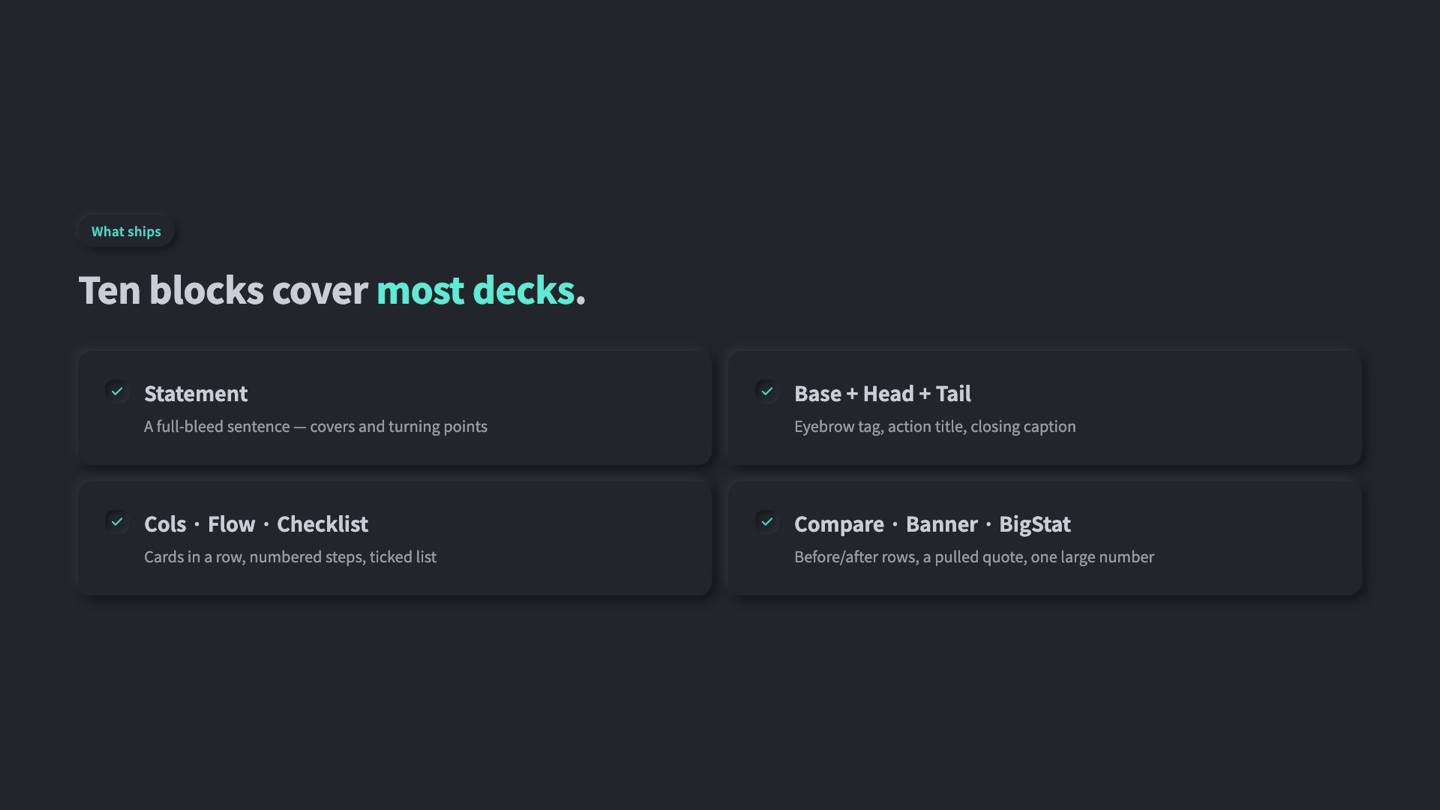
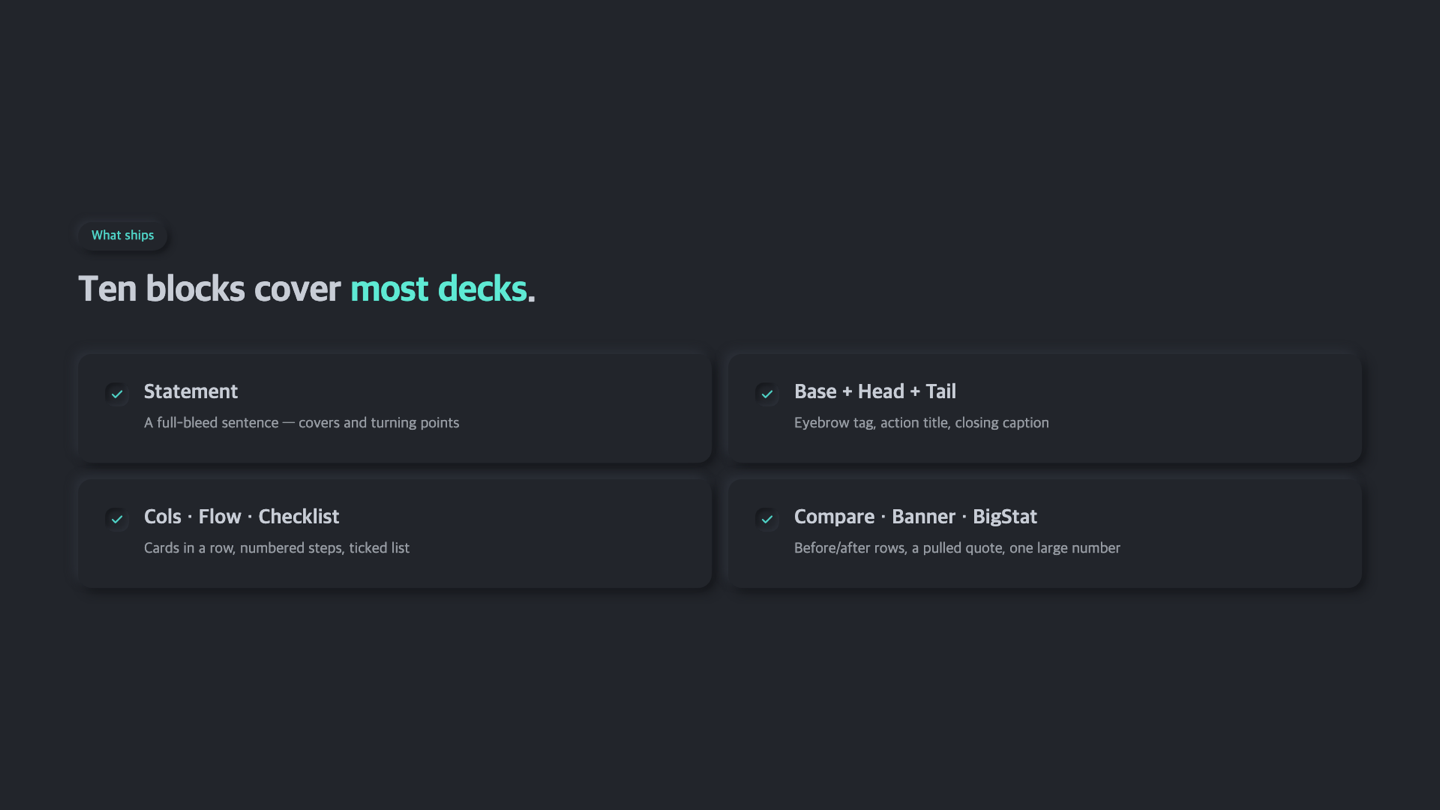
fix(kit): two alignment lines — markers stand on the line, words follow
A caption's bar and a quote's bar were 26px apart, so a caption never
began where its quote began.

- line 1: badge border, title, every card's left border
- line 2: card text, bullet dot, quote bar, caption bar
- words follow a marker at MARK; a marker never nudges text off its line
- compare row labels moved onto line 2, label column widened to 300px
- RAIL replaced by MARK

Screenshots retaken.

diff --git a/src/lean-deck/kit.tsx b/src/lean-deck/kit.tsx
@@ -9,14 +9,15 @@ export const CODE_BG = 'rgba(125,128,140,0.14)';
  * 조판 규칙 (2026-08-25)
  *  ① 정렬선 — 뱃지 테두리·헤더 타이틀·카드의 왼쪽 테두리가 같은 x(정렬선)에 선다.
  *     카드 안의 글자는 카드 텍스트 라인(정렬선 + PAD)에 선다.
- *  ② 표시는 글자를 밀지 않는다 — 불릿 점은 카드 큰 글씨의 왼쪽에서 시작하고,
- *     인용·꼬리말의 바는 카드 텍스트 라인 안쪽 여백에 걸린다. 글자는 언제나 라인 위.
+ *  ② 라인은 둘뿐이다 — 정렬선(L)과 카드 텍스트 라인(L + CARD_PAD).
+ *     불릿 점·인용 바·꼬리말 바는 전부 카드 텍스트 라인에 서고,
+ *     그 글자들은 한 자리(MARK) 뒤에 온다. 서브 텍스트도 인용 표시부터 시작한다.
  *  ③ 깊이 — 양각(t.card)은 표면에 놓인 실체, 음각(t.cardHi)은 안에 담긴 것
  *     (인용문·이전 상태·아이콘 그릇). 깊이로 강조하지 않는다.
  *  ④ 강조 — 카드에 테두리·깊이 차이를 주지 않는다. 같은 층의 카드는 같은 모양이다.
  *     구분이 필요하면 라벨색·글자 굵기·문장 자체로 한다.
  */
-export const RAIL = 16;   // 인용 표시(바)와 글자 사이. 바는 카드 테두리에서 CARD_PAD-RAIL 떨어진다
+export const MARK = 22;   // 표시(불릿 점·인용 바)와 그 뒤 글자 사이
 export const CARD_PAD = 42;   // 모든 카드의 안쪽 여백. 카드 안 글자 = 정렬선 + CARD_PAD
 
 export function Base({ t, center, wide, children }: { t: Theme; center?: boolean; wide?: boolean; children: React.ReactNode }) {
@@ -64,8 +65,8 @@ export function Head({ t, eyebrow, pre, accent, post, size = 52 }: { t: Theme; e
 
 export function Tail({ t, children }: { t: Theme; children: React.ReactNode }) {
   return (
-    <div style={{ position: 'relative', marginTop: 36, paddingLeft: RAIL + 4 }}>
-      <div style={{ position: 'absolute', left: 0, top: 3, bottom: 3, minHeight: 26, width: 4, borderRadius: 4, background: t.bar }} />
+    <div style={{ position: 'relative', marginTop: 36, paddingLeft: CARD_PAD + MARK }}>
+      <div style={{ position: 'absolute', left: CARD_PAD, top: 3, bottom: 3, minHeight: 26, width: 4, borderRadius: 4, background: t.bar }} />
       <p style={{ fontSize: 22, lineHeight: 1.6, margin: 0, color: t.ink.soft }}>{children}</p>
     </div>
   );
@@ -86,7 +87,7 @@ export function Cols({ t, items }: { t: Theme; items: { idx?: string; title: str
           <p style={{ fontSize: 34, fontWeight: 700, margin: '0 0 22px', color: t.ink.strong, wordBreak: 'keep-all', lineHeight: 1.4 }}>{c.title}</p>
           <div style={{ display: 'flex', flexDirection: 'column', gap: 13 }}>
             {(c.rows ?? []).map((r, j) => (
-              <div key={j} style={{ position: 'relative', paddingLeft: 22 }}>
+              <div key={j} style={{ position: 'relative', paddingLeft: MARK }}>
                 <span style={{ position: 'absolute', left: 0, top: 13, width: 7, height: 7, borderRadius: '50%', background: t.accent }} />
                 <span style={{ fontSize: 21, lineHeight: 1.6, color: t.ink.soft, wordBreak: 'keep-all', fontFamily: c.mono0 && j === 0 ? t.mono : t.font }}>{r}</span>
               </div>
@@ -152,8 +153,8 @@ export function Banner({ t, kind = 'info', children }: { t: Theme; kind?: 'info'
   const PAD = CARD_PAD;
   return (
     <div style={{ position: 'relative', boxSizing: 'border-box', padding: `40px ${PAD}px`, ...(warn ? { ...t.card, ...t.warn, borderRadius: (t.card.borderRadius as number) ?? 14 } : t.card) }}>
-      <div style={{ position: 'absolute', left: PAD - RAIL, top: 40, bottom: 40, width: 4, borderRadius: 4, background: warn ? (t.warn.color ?? t.bar) : t.bar }} />
-      <p style={{ fontSize: 31, lineHeight: 1.55, margin: 0, color: warn ? (t.warn.color ?? t.ink.strong) : t.ink.strong, wordBreak: 'keep-all', fontWeight: 500 }}>{children}</p>
+      <div style={{ position: 'absolute', left: PAD, top: 40, bottom: 40, width: 4, borderRadius: 4, background: warn ? (t.warn.color ?? t.bar) : t.bar }} />
+      <p style={{ paddingLeft: MARK, fontSize: 31, lineHeight: 1.55, margin: 0, color: warn ? (t.warn.color ?? t.ink.strong) : t.ink.strong, wordBreak: 'keep-all', fontWeight: 500 }}>{children}</p>
     </div>
   );
 }
@@ -162,14 +163,14 @@ export function Banner({ t, kind = 'info', children }: { t: Theme; kind?: 'info'
 export function Compare({ t, beforeLabel = '예전', afterLabel = '지금', rows }: { t: Theme; beforeLabel?: string; afterLabel?: string; rows: { label: string; before: string; after: string }[] }) {
   return (
     <div style={{ display: 'flex', flexDirection: 'column', gap: 18 }}>
-      <div style={{ display: 'grid', gridTemplateColumns: '250px 1fr 1fr', gap: 20 }}>
+      <div style={{ display: 'grid', gridTemplateColumns: '300px 1fr 1fr', gap: 20 }}>
         <span />
         <span style={{ fontSize: 18, fontWeight: 600, color: t.ink.mute }}>{beforeLabel}</span>
         <span style={{ fontSize: 18, fontWeight: 700, color: t.accent }}>{afterLabel}</span>
       </div>
       {rows.map((r, i) => (
-        <div key={i} style={{ display: 'grid', gridTemplateColumns: '250px 1fr 1fr', gap: 20, alignItems: 'stretch' }}>
-          <div style={{ display: 'flex', alignItems: 'center', fontSize: 23, fontWeight: 600, color: t.ink.soft, wordBreak: 'keep-all' }}>{r.label}</div>
+        <div key={i} style={{ display: 'grid', gridTemplateColumns: '300px 1fr 1fr', gap: 20, alignItems: 'stretch' }}>
+          <div style={{ display: 'flex', alignItems: 'center', paddingLeft: CARD_PAD, fontSize: 23, fontWeight: 600, color: t.ink.soft, wordBreak: 'keep-all' }}>{r.label}</div>
           <Card t={t} inset style={{ padding: `30px ${CARD_PAD}px`, display: 'flex', alignItems: 'center' }}><span style={{ fontSize: 22, lineHeight: 1.5, color: t.ink.mute, wordBreak: 'keep-all' }}>{r.before}</span></Card>
           <Card t={t} style={{ padding: `30px ${CARD_PAD}px`, display: 'flex', alignItems: 'center' }}><span style={{ fontSize: 22, lineHeight: 1.5, color: t.ink.strong, fontWeight: 600, wordBreak: 'keep-all' }}>{r.after}</span></Card>
         </div>

diff --git a/src/lean-deck/DemoDeck.tsx b/src/lean-deck/DemoDeck.tsx
@@ -74,9 +74,9 @@ export const demoSlides: Slide[] = [
     title: 'Alignment',
     render: (t) => (
       <Base t={t}>
-        <Head t={t} eyebrow="One alignment line" pre="Badge, title and card border all sit on" accent="the same x" post="." size={46} />
-        <Banner t={t}>Quotes and captions begin at their accent bar, never after it.</Banner>
-        <Tail t={t}>Cards sit on the line; the text inside them sits one CARD_PAD further in.</Tail>
+        <Head t={t} eyebrow="Two lines, and only two" pre="Badge border, title and card border sit on" accent="the first" post="." size={46} />
+        <Banner t={t}>Card text, bullet dots and accent bars all sit on the second line.</Banner>
+        <Tail t={t}>A caption begins exactly where a quote begins — marker first, then the words.</Tail>
       </Base>
     ),
   },

diff --git a/README.md b/README.md
@@ -132,8 +132,8 @@ slides[0].render(THEMES.brutalism);
 | `Card` | The primitive. Compose your own layouts with it. |
 | `Tag` `Accent` `Warn` | Inline pieces. |
 
-Constants: `CARD_PAD` is the inset from a card's border to its text; `RAIL` is the gap between an
-accent bar and the text that follows it.
+Constants: `CARD_PAD` is the inset from a card's border to its text; `MARK` is the gap between a
+marker (bullet dot, accent bar) and the words that follow it.
 
 ![components](docs/components/slide-7.png)
 
@@ -141,10 +141,11 @@ accent bar and the text that follows it.
 
 ## Three rules the kit enforces
 
-**One alignment line.** The eyebrow badge's border, the title, every card's left border, and the
-accent bar of a caption all sit at the same x. Inside a card, the text sits one `CARD_PAD`
-further in — and the bullet dot of a list starts where that text starts, so nothing is nudged
-off the line by a marker.
+**Two lines, and only two.** The eyebrow badge's *border*, the title, and every card's left
+border sit on the first. The text inside a card, a list's bullet dot, a quote's accent bar and
+a caption's accent bar all sit on the second, one `CARD_PAD` further in — and the words that
+follow a dot or a bar start one `MARK` after it. A marker never nudges text off its line, and a
+caption begins exactly where a quote begins.
 
 ![alignment](docs/components/slide-4.png)
 
